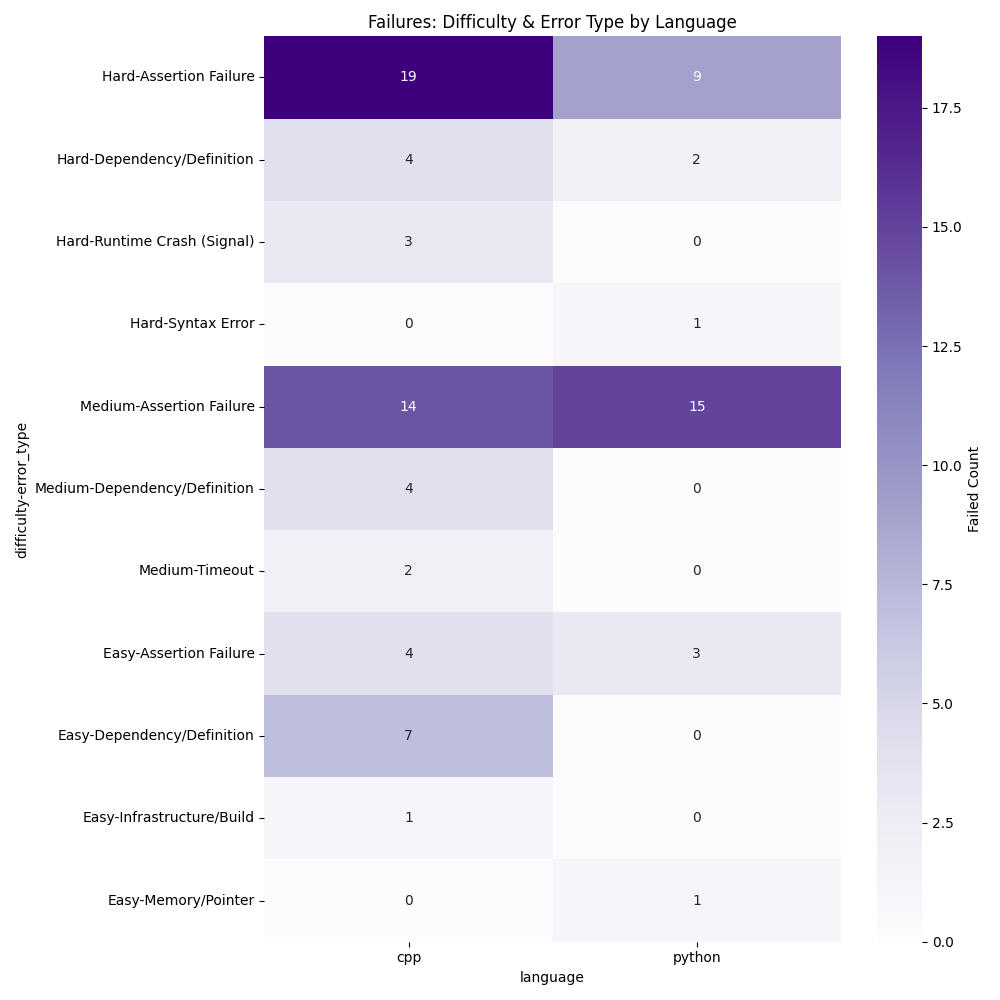
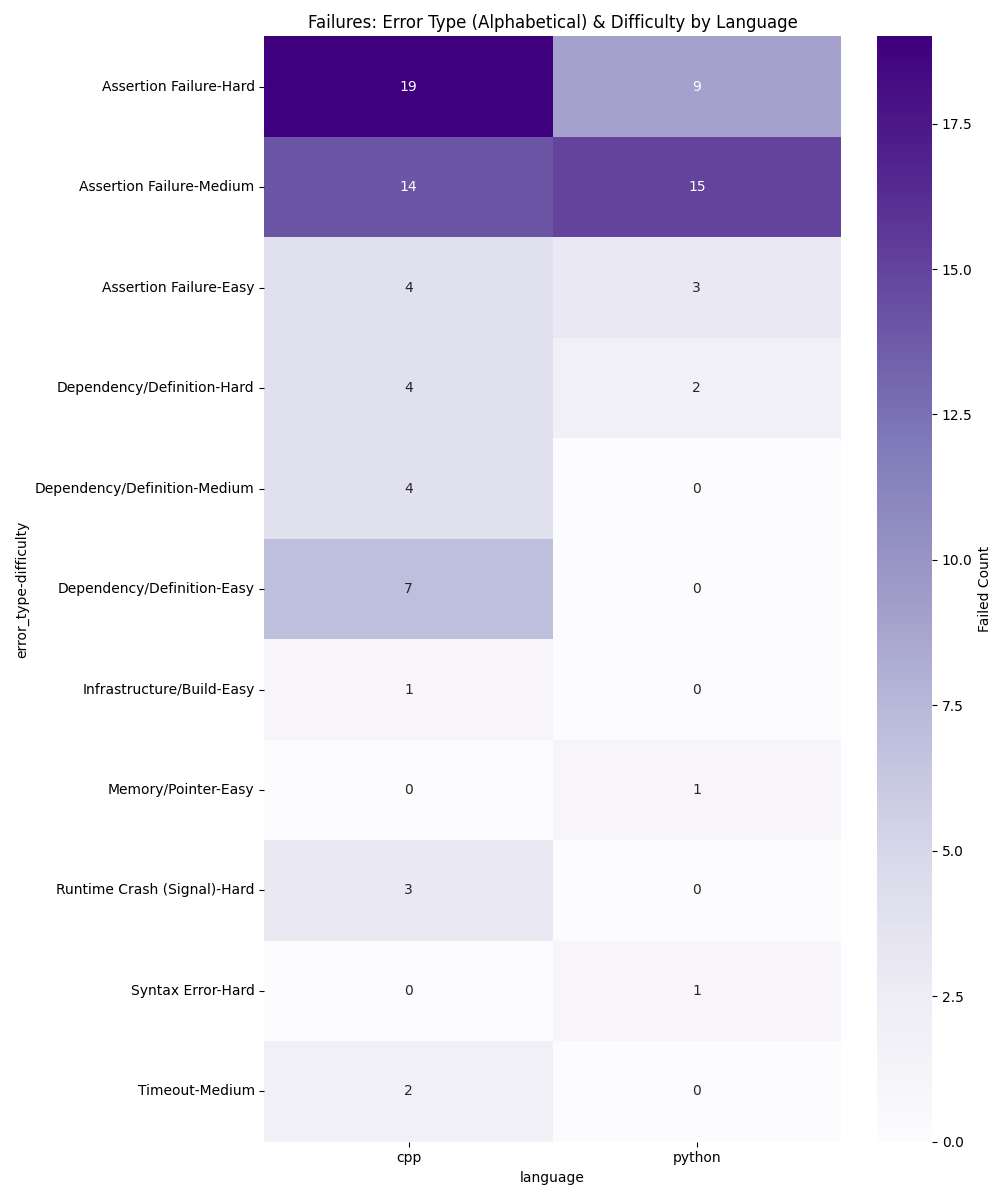
sorted by failure not difficulty

diff --git a/generated_code/unittest_run_all.py b/generated_code/unittest_run_all.py
@@ -930,22 +930,31 @@ import pandas as pd
 DIFFICULTY_ORDER = ['Hard', 'Medium', 'Easy']
 
 def plot_graph_bc_failures_difficulty_error(attempt_df: pd.DataFrame):
+    """
+    Heatmap: Measures failed attempts cross-referencing Error Type and Difficulty.
+    Primary Sort: Error Type (Alphabetical)
+    Secondary Sort: Difficulty (Hard -> Medium -> Easy)
+    """
     failures = attempt_df[attempt_df['result'] == 'failed'].copy()
     
-    # Force categorical order
-    failures['difficulty'] = pd.Categorical(failures['difficulty'], categories=DIFFICULTY_ORDER, ordered=True)
+    # Ensure difficulty retains its custom sort order
+    failures['difficulty'] = pd.Categorical(
+        failures['difficulty'], 
+        categories=['Hard', 'Medium', 'Easy'], 
+        ordered=True
+    )
     
-    # Create multi-index pivot
+    # Create multi-index pivot: Error Type primary, Difficulty secondary
     matrix = failures.pivot_table(
-        index=['difficulty', 'error_type'], 
+        index=['error_type', 'difficulty'], 
         columns='language', 
         aggfunc='size', 
         fill_value=0
     )
     
-    plt.figure(figsize=(10, 10))
+    plt.figure(figsize=(10, 12)) # Increased height to account for expanded error type groups
     sns.heatmap(matrix, annot=True, fmt='d', cmap='Purples', cbar_kws={'label': 'Failed Count'})
-    plt.title("Failures: Difficulty & Error Type by Language")
+    plt.title("Failures: Error Type (Alphabetical) & Difficulty by Language")
     plt.xticks(rotation=0)
     save_current_figure("graph_bc_failures_difficulty_error.png")
 
